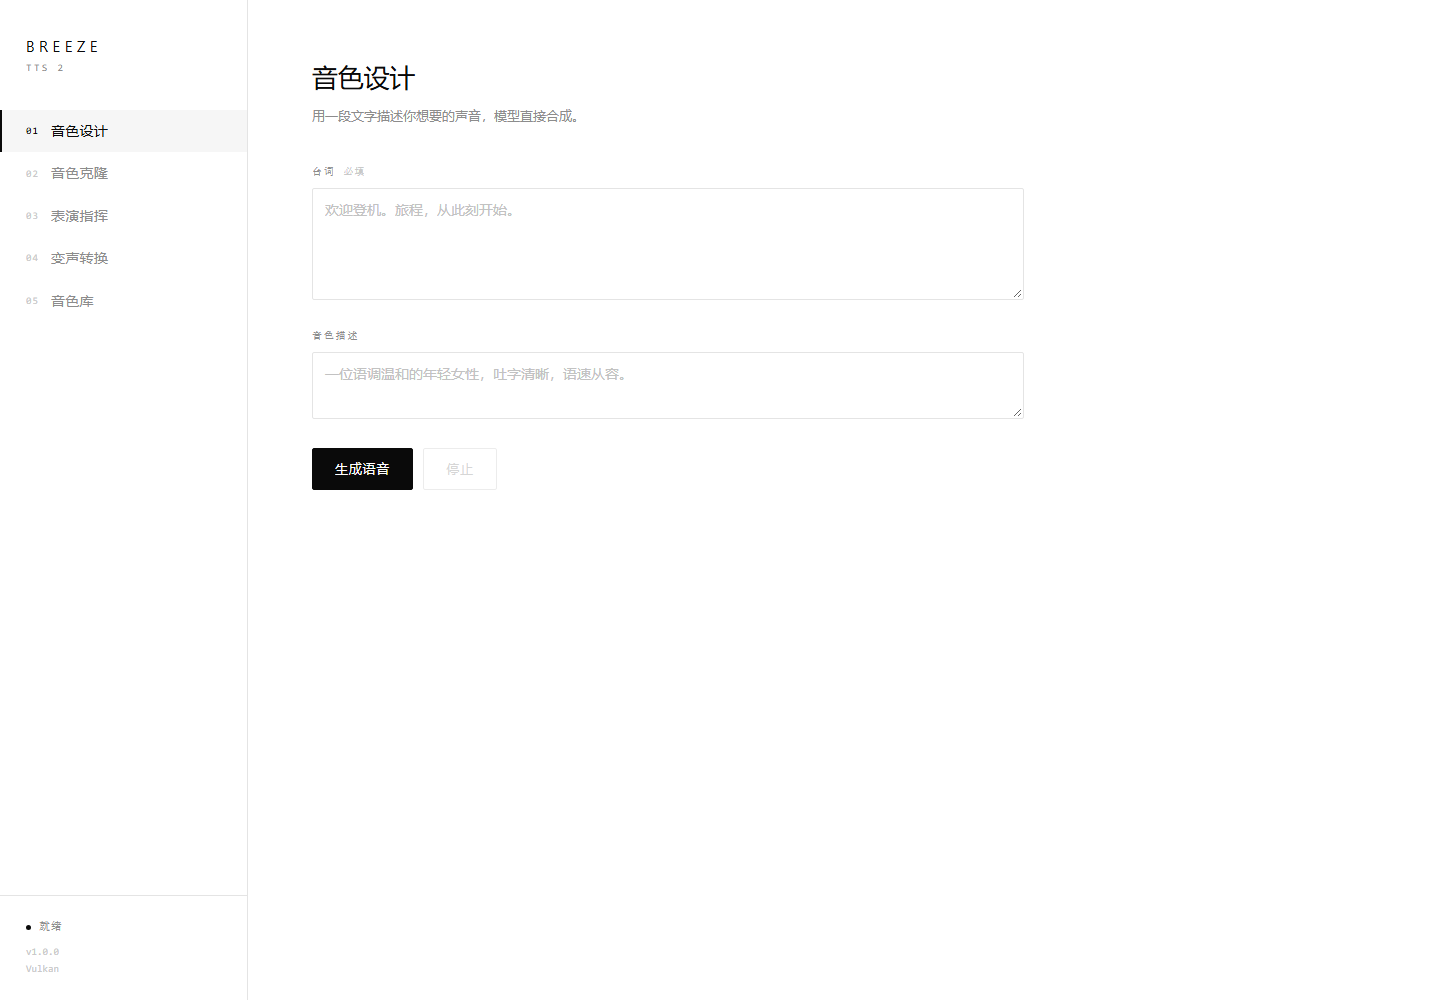
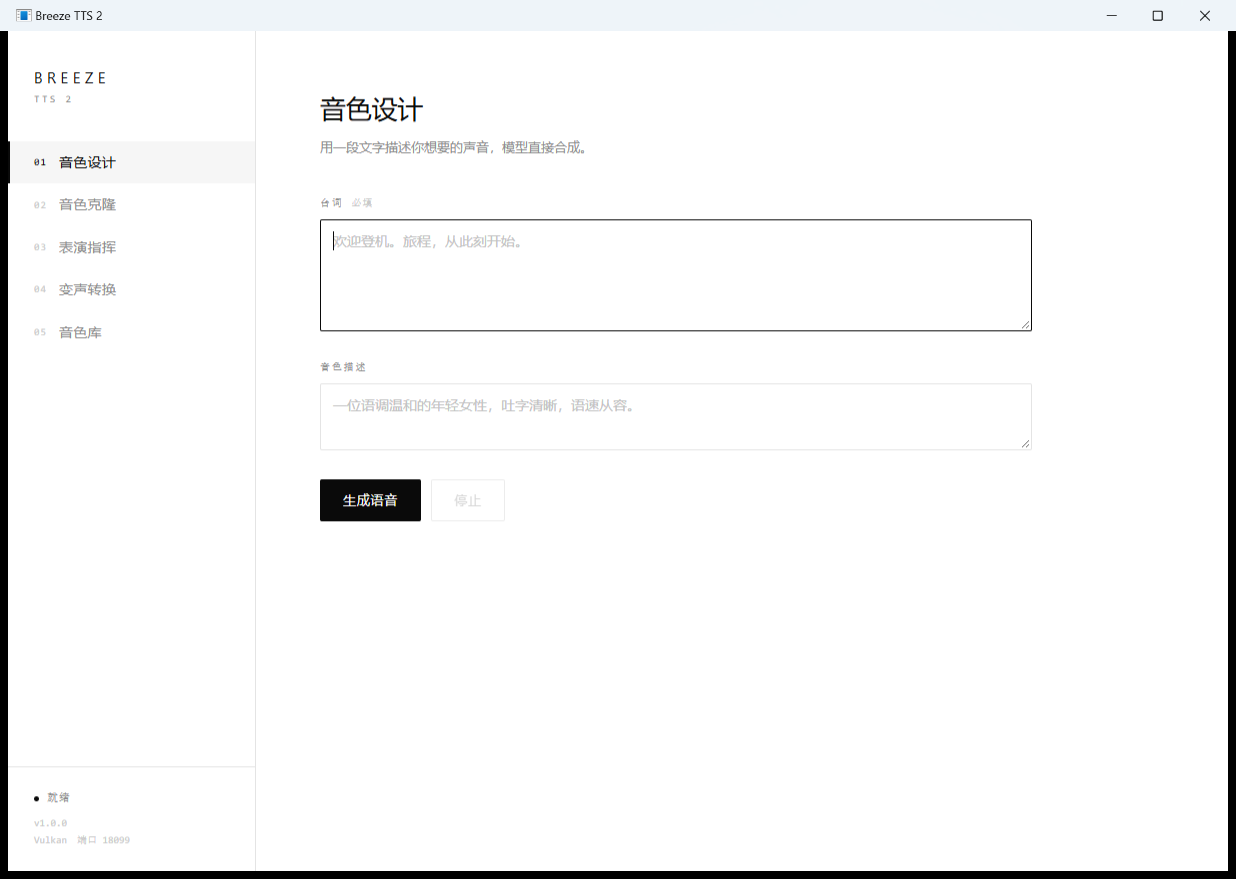
改用 WebView2 内嵌窗口：打开是软件而不是浏览器
- 新增 src/launcher/Window.cs：WinForms + WebView2 承载界面，独立标题栏与任务栏图标
- Main 标 [STAThread]，否则 WebView2 报 RPC_E_CHANGED_MODE
- 用户数据目录按 DataDir -> AppDir -> TEMP 重试，仍失败才回退浏览器
- 第二个实例改为唤起已有窗口（命名事件），不再静默退出
- build.ps1 自动从 nuget.org 拉取 WebView2 SDK（lib/net462 + win-x64 loader）

diff --git a/src/launcher/Program.cs b/src/launcher/Program.cs
@@ -7,6 +7,7 @@ using System.Net;
 using System.Reflection;
 using System.Text;
 using System.Threading;
+using System.Windows.Forms;
 
 namespace Breeze
 {
@@ -29,6 +30,7 @@ namespace Breeze
         static readonly object QLock = new object();
         static readonly Queue<string> ServerLog = new Queue<string>();
 
+        [STAThread]
         static int Main(string[] args)
         {
             bool uninstall = false, noOpen = false;
@@ -52,6 +54,16 @@ namespace Breeze
 
             if (uninstall) { Uninstall(); return 0; }
 
+            string urlOverride = null;
+            for (int i = 0; i < args.Length; i++)
+                if (args[i] == "--url" && i + 1 < args.Length) urlOverride = args[i + 1];
+
+            if (urlOverride != null)
+            {
+                RunWindow(urlOverride);
+                return 0;
+            }
+
             bool created;
             Mutex single;
             try
@@ -61,7 +73,8 @@ namespace Breeze
             catch { created = true; single = null; }
             if (!created)
             {
-                OpenBrowser("http://127.0.0.1:" + UiPort + "/");
+                var show = FindShowEvent();
+                if (show != null) { try { show.Set(); } catch { } }
                 return 0;
             }
 
@@ -75,9 +88,11 @@ namespace Breeze
                 StartUi();
                 if (File.Exists(ModelPath)) StartServer(); else Msg("model missing, waiting for download");
                 AppDomain.CurrentDomain.ProcessExit += delegate { Shutdown(); };
-                Thread.Sleep(400);
-                if (!noOpen) OpenBrowser("http://127.0.0.1:" + UiPort + "/");
-                Thread.Sleep(Timeout.Infinite);
+                Thread.Sleep(300);
+                WatchShowRequests();
+                if (noOpen) Thread.Sleep(Timeout.Infinite);
+                else RunWindow("http://127.0.0.1:" + UiPort + "/");
+                if (FellBack) Thread.Sleep(Timeout.Infinite);
             }
             catch (Exception ex)
             {
@@ -118,6 +133,77 @@ namespace Breeze
         {
             try { Process.Start(new ProcessStartInfo(url) { UseShellExecute = true }); }
             catch (Exception ex) { Msg("打开浏览器失败: " + ex.Message); }
+        }
+
+        /* ---------------- 主窗口 ---------------- */
+        static volatile bool FellBack;
+        static MainWindow Wnd;
+        const string ShowEventName = "Local\\BreezeTTS2-SHOW";
+
+        static EventWaitHandle FindShowEvent()
+        {
+            try { return EventWaitHandle.OpenExisting(ShowEventName); }
+            catch { return null; }
+        }
+
+        static void RunWindow(string url)
+        {
+            FellBack = false;
+            try
+            {
+                Application.EnableVisualStyles();
+                Application.SetCompatibleTextRenderingDefault(false);
+                string[] webDirs = new string[] {
+                    Path.Combine(DataDir, "webview"),
+                    Path.Combine(AppDir, "webview"),
+                    Path.Combine(Path.GetTempPath(), "BreezeTTS2-webview")
+                };
+                Wnd = new MainWindow(url, webDirs, delegate(string why)
+                {
+                    Msg(why + " —— 回退到浏览器");
+                    FellBack = true;
+                    OpenBrowser(url);
+                }, delegate(string info) { Msg(info); });
+                Application.Run(Wnd);
+                Msg("window closed");
+            }
+            catch (Exception ex)
+            {
+                Msg("窗口启动失败，回退到浏览器: " + ex.Message);
+                FellBack = true;
+                OpenBrowser(url);
+            }
+        }
+
+        /// <summary>第二个实例启动时唤起已有窗口，而不是什么都不做。</summary>
+        static void WatchShowRequests()
+        {
+            try
+            {
+                var ev = new EventWaitHandle(false, EventResetMode.AutoReset, ShowEventName);
+                var t = new Thread(delegate()
+                {
+                    while (true)
+                    {
+                        ev.WaitOne();
+                        if (Wnd == null) continue;
+                        try
+                        {
+                            Wnd.BeginInvoke((Action)delegate
+                            {
+                                if (Wnd.WindowState == FormWindowState.Minimized) Wnd.WindowState = FormWindowState.Normal;
+                                Wnd.Show();
+                                Wnd.Activate();
+                                Wnd.BringToFront();
+                            });
+                        }
+                        catch { }
+                    }
+                });
+                t.IsBackground = true;
+                t.Start();
+            }
+            catch (Exception ex) { Msg("show listener failed: " + ex.Message); }
         }
 
         /* ---------------- UI host ---------------- */

diff --git a/src/launcher/Window.cs b/src/launcher/Window.cs
@@ -1,0 +1,99 @@
+using System;
+using System.Drawing;
+using System.IO;
+using System.Windows.Forms;
+using Microsoft.Web.WebView2.Core;
+using Microsoft.Web.WebView2.WinForms;
+
+namespace Breeze
+{
+    /// <summary>主窗口：用系统自带的 WebView2 运行时承载界面，外观就是普通软件窗口。</summary>
+    class MainWindow : Form
+    {
+        readonly string url;
+        readonly string[] dataDirs;
+        readonly Action<string> onFail;
+        readonly Action<string> log;
+        WebView2 view;
+        bool failed;
+
+        public MainWindow(string url, string[] dataDirs, Action<string> onFail, Action<string> log)
+        {
+            this.url = url;
+            this.dataDirs = dataDirs;
+            this.onFail = onFail;
+            this.log = log;
+
+            Text = "Breeze TTS 2";
+            StartPosition = FormStartPosition.CenterScreen;
+            ClientSize = new Size(1220, 840);
+            MinimumSize = new Size(920, 640);
+            BackColor = Color.White;
+            Font = new Font("Microsoft YaHei UI", 9f);
+            try { Icon = Icon.ExtractAssociatedIcon(Application.ExecutablePath); } catch { }
+
+            view = new WebView2();
+            view.Dock = DockStyle.Fill;
+            view.DefaultBackgroundColor = Color.White;
+            Controls.Add(view);
+        }
+
+        protected override void OnLoad(EventArgs e)
+        {
+            base.OnLoad(e);
+            Boot();
+        }
+
+        async void Boot()
+        {
+            string lastError = "";
+            for (int sandbox = 0; sandbox < 2; sandbox++)
+            {
+                foreach (string dir in dataDirs)
+                {
+                    if (string.IsNullOrEmpty(dir)) continue;
+                    try
+                    {
+                        Directory.CreateDirectory(dir);
+                        var opts = new CoreWebView2EnvironmentOptions();
+                        if (sandbox == 1) opts.AdditionalBrowserArguments = "--no-sandbox";
+                        var env = await CoreWebView2Environment.CreateAsync(null, dir, opts);
+                        await view.EnsureCoreWebView2Async(env);
+
+                        var s = view.CoreWebView2.Settings;
+                        s.AreDevToolsEnabled = false;
+                        s.IsStatusBarEnabled = false;
+                        s.IsSwipeNavigationEnabled = false;
+
+                        view.CoreWebView2.NewWindowRequested += delegate(object sender, CoreWebView2NewWindowRequestedEventArgs ev)
+                        {
+                            ev.Handled = true;
+                            try { System.Diagnostics.Process.Start(new System.Diagnostics.ProcessStartInfo(ev.Uri) { UseShellExecute = true }); }
+                            catch { }
+                        };
+
+                        view.CoreWebView2.Navigate(url);
+                        log("webview ok: " + dir + (sandbox == 1 ? " (no-sandbox)" : ""));
+                        return;
+                    }
+                    catch (Exception ex)
+                    {
+                        lastError = ex.Message;
+                        log("webview fail [" + dir + (sandbox == 1 ? " no-sandbox" : "") + "]: " + ex.Message);
+                    }
+                }
+            }
+
+            if (failed) return;
+            failed = true;
+            try { onFail(lastError); } catch { }
+            Close();
+        }
+
+        protected override void OnFormClosed(FormClosedEventArgs e)
+        {
+            base.OnFormClosed(e);
+            if (!failed) Application.Exit();
+        }
+    }
+}

diff --git a/README.md b/README.md
@@ -1,6 +1,6 @@
 # Breeze TTS 2 桌面版
 
-给 [Breeze TTS 2](https://github.com/HoppouAI/Breeze-TTS-2.cpp) 套一个能双击安装的 Windows 外壳：本地推理、纯黑白界面、全程离线。
+给 [Breeze TTS 2](https://github.com/HoppouAI/Breeze-TTS-2.cpp) 套一个能双击安装的 Windows 桌面程序：**打开是它自己的窗口**（WebView2 内嵌），不是浏览器标签页；本地推理、纯黑白界面、全程离线。
 
 后端是原版 `breeze-server` 的量化版（Q4_K），本项目**不含模型权重**，首次启动时下载。
 
@@ -11,6 +11,7 @@
 原版只有命令行和编译期嵌死的英文 WebUI。这个项目补上三件事：
 
 1. **一个安装包**——`BreezeTTS2Setup.exe`，双击即装，无需管理员权限，不带 2.4 GB 权重。
+   界面用系统自带的 WebView2 运行时渲染（Win10/11 预装），所以不用打包 Chromium，安装包只有 70 MB；万一系统缺 WebView2，会自动回退到浏览器打开。
 2. **一个中文界面**——音色设计 / 音色克隆 / 表演指挥 / 变声转换 / 音色库，五页全中文。
 3. **一个本地启动器**——`BreezeTTS2.exe` 负责拉起后端、代理接口、下载模型、卸载自己。
 
@@ -52,9 +53,10 @@ powershell -ExecutionPolicy Bypass -File build\build.ps1 -BreezeDir "D:\breeze-t
 
 ```
 src/launcher/Program.cs   启动器：静态页 + /api 反向代理 + 模型下载 + 卸载
-src/setup/Program.cs      安装器：自解压、写注册表、建快捷方式
+src/launcher/Window.cs    主窗口：WebView2 承载界面（STA 线程、多路径重试）
+src/setup/Program.cs      安装器：自解压、选目录、写注册表、建快捷方式
 src/ui/                   界面（原生 HTML/CSS/JS，无框架、无构建）
-build/build.ps1           编译 + 打包
+build/build.ps1           编译 + 打包（自动拉取 WebView2 SDK）
 ```
 
 启动器是唯一 origin：它把 `/api/*` 反代到后端的 `:18099`，所以**不需要给后端开 `--cors`**，也不会撞上跨域限制。
